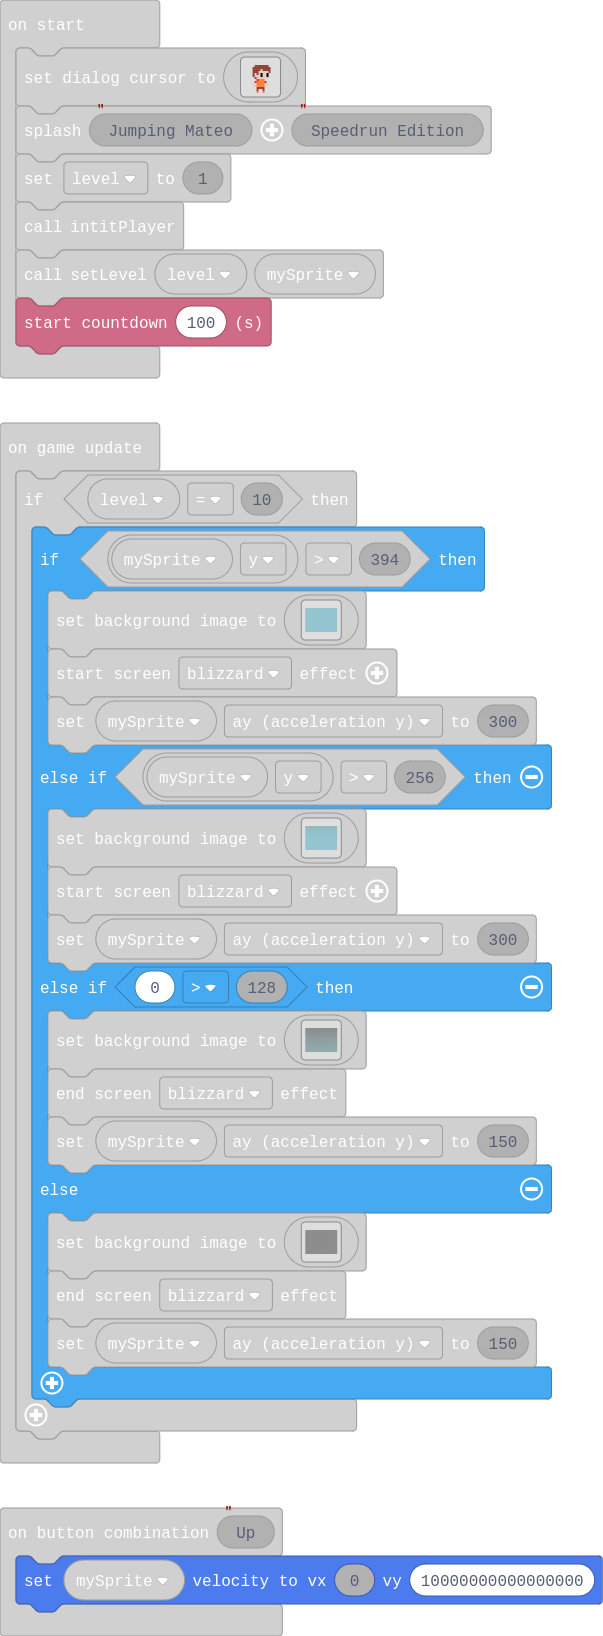
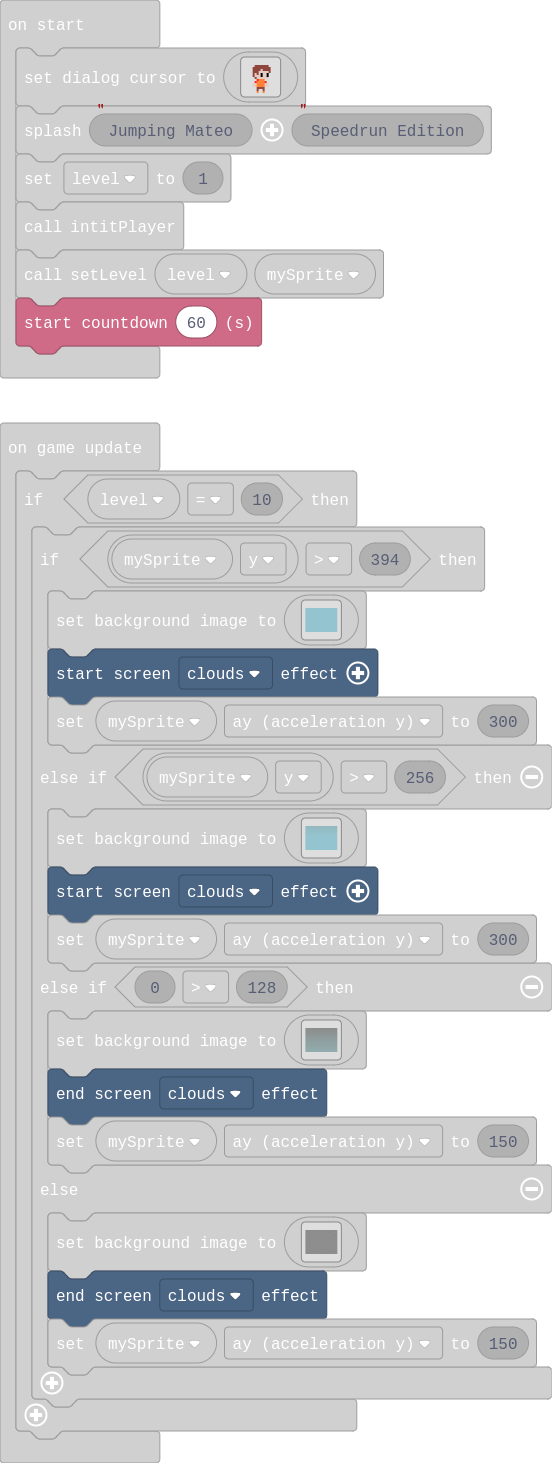
0.2 Update! Changed countdown to 100s to 60s

diff --git a/main.ts b/main.ts
@@ -897,7 +897,7 @@ game.splash("Jumping Mateo", "Speedrun Edition")
 level = 1
 intitPlayer()
 setLevel(level, mySprite)
-info.startCountdown(100)
+info.startCountdown(60)
 game.onUpdate(function () {
     if (level == 10) {
         if (mySprite.y > 394) {
@@ -1023,7 +1023,7 @@ game.onUpdate(function () {
 6 6 6 6 6 6 6 6 6 6 6 6 6 6 6 6 6 6 6 6 6 6 6 6 6 6 6 6 6 6 6 6 6 6 6 6 6 6 6 6 6 6 6 6 6 6 6 6 6 6 6 6 6 6 6 6 6 6 6 6 6 6 6 6 6 6 6 6 6 6 6 6 6 6 6 6 6 6 6 6 6 6 6 6 6 6 6 6 6 6 6 6 6 6 6 6 6 6 6 6 6 6 6 6 6 6 6 6 6 6 6 6 6 6 6 6 6 6 6 6 6 6 6 6 6 6 6 6 6 6 6 6 6 6 6 6 6 6 6 6 6 6 6 6 6 6 6 6 6 6 6 6 6 6 6 6 6 6 6 6 
 6 6 6 6 6 6 6 6 6 6 6 6 6 6 6 6 6 6 6 6 6 6 6 6 6 6 6 6 6 6 6 6 6 6 6 6 6 6 6 6 6 6 6 6 6 6 6 6 6 6 6 6 6 6 6 6 6 6 6 6 6 6 6 6 6 6 6 6 6 6 6 6 6 6 6 6 6 6 6 6 6 6 6 6 6 6 6 6 6 6 6 6 6 6 6 6 6 6 6 6 6 6 6 6 6 6 6 6 6 6 6 6 6 6 6 6 6 6 6 6 6 6 6 6 6 6 6 6 6 6 6 6 6 6 6 6 6 6 6 6 6 6 6 6 6 6 6 6 6 6 6 6 6 6 6 6 6 6 6 6 
 `)
-            effects.blizzard.startScreenEffect()
+            effects.clouds.startScreenEffect()
             mySprite.ay = 300
         } else if (mySprite.y > 256) {
             scene.setBackgroundImage(img`
@@ -1148,7 +1148,7 @@ f 6 6 6 6 6 6 6 f 6 6 6 6 6 6 6 f 6 6 6 6 6 6 6 f 6 6 6 6 6 6 6 f 6 6 6 6 6 6 6 
 6 6 6 6 6 6 6 6 6 6 6 6 6 6 6 6 6 6 6 6 6 6 6 6 6 6 6 6 6 6 6 6 6 6 6 6 6 6 6 6 6 6 6 6 6 6 6 6 6 6 6 6 6 6 6 6 6 6 6 6 6 6 6 6 6 6 6 6 6 6 6 6 6 6 6 6 6 6 6 6 6 6 6 6 6 6 6 6 6 6 6 6 6 6 6 6 6 6 6 6 6 6 6 6 6 6 6 6 6 6 6 6 6 6 6 6 6 6 6 6 6 6 6 6 6 6 6 6 6 6 6 6 6 6 6 6 6 6 6 6 6 6 6 6 6 6 6 6 6 6 6 6 6 6 6 6 6 6 6 6 
 6 6 6 6 6 6 6 6 6 6 6 6 6 6 6 6 6 6 6 6 6 6 6 6 6 6 6 6 6 6 6 6 6 6 6 6 6 6 6 6 6 6 6 6 6 6 6 6 6 6 6 6 6 6 6 6 6 6 6 6 6 6 6 6 6 6 6 6 6 6 6 6 6 6 6 6 6 6 6 6 6 6 6 6 6 6 6 6 6 6 6 6 6 6 6 6 6 6 6 6 6 6 6 6 6 6 6 6 6 6 6 6 6 6 6 6 6 6 6 6 6 6 6 6 6 6 6 6 6 6 6 6 6 6 6 6 6 6 6 6 6 6 6 6 6 6 6 6 6 6 6 6 6 6 6 6 6 6 6 6 
 `)
-            effects.blizzard.startScreenEffect()
+            effects.clouds.startScreenEffect()
             mySprite.ay = 300
         } else if (0 > 128) {
             scene.setBackgroundImage(img`
@@ -1273,7 +1273,7 @@ f 6 f 6 f 6 f 6 f 6 f 6 f 6 f 6 f 6 f 6 f 6 f 6 f 6 f 6 f 6 f 6 f 6 f 6 f 6 f 6 
 6 f 6 f 6 f 6 f 6 f 6 f 6 f 6 f 6 f 6 f 6 f 6 f 6 f 6 f 6 f 6 f 6 f 6 f 6 f 6 f 6 f 6 f 6 f 6 f 6 f 6 f 6 f 6 f 6 f 6 f 6 f 6 f 6 f 6 f 6 f 6 f 6 f 6 f 6 f 6 f 6 f 6 f 6 f 6 f 6 f 6 f 6 f 6 f 6 f 6 f 6 f 6 f 6 f 6 f 6 f 6 f 6 f 6 f 6 f 6 f 6 f 6 f 6 f 6 f 6 f 6 f 6 f 6 f 6 f 6 f 6 f 6 f 6 f 6 f 6 f 6 f 6 f 6 f 6 f 6 f 
 f 6 f 6 f 6 f 6 f 6 f 6 f 6 f 6 f 6 f 6 f 6 f 6 f 6 f 6 f 6 f 6 f 6 f 6 f 6 f 6 f 6 f 6 f 6 f 6 f 6 f 6 f 6 f 6 f 6 f 6 f 6 f 6 f 6 f 6 f 6 f 6 f 6 f 6 f 6 f 6 f 6 f 6 f 6 f 6 f 6 f 6 f 6 f 6 f 6 f 6 f 6 f 6 f 6 f 6 f 6 f 6 f 6 f 6 f 6 f 6 f 6 f 6 f 6 f 6 f 6 f 6 f 6 f 6 f 6 f 6 f 6 f 6 f 6 f 6 f 6 f 6 f 6 f 6 f 6 f 6 
 `)
-            effects.blizzard.endScreenEffect()
+            effects.clouds.endScreenEffect()
             mySprite.ay = 150
         } else {
             scene.setBackgroundImage(img`
@@ -1398,7 +1398,7 @@ f f f f f f f f f f f f f f f f f f f f f f f f f f f f f f f f f f f f f f f f 
 f f f f f f f f f f f f f f f f f f f f f f f f f f f f f f f f f f f f f f f f f f f f f f f f f f f f f f f f f f f f f f f f f f f f f f f f f f f f f f f f f f f f f f f f f f f f f f f f f f f f f f f f f f f f f f f f f f f f f f f f f f f f f f f f f f f f f f f f f f f f f f f f f f f f f f f f f f f f f f f f 
 f f f f f f f f f f f f f f f f f f f f f f f f f f f f f f f f f f f f f f f f f f f f f f f f f f f f f f f f f f f f f f f f f f f f f f f f f f f f f f f f f f f f f f f f f f f f f f f f f f f f f f f f f f f f f f f f f f f f f f f f f f f f f f f f f f f f f f f f f f f f f f f f f f f f f f f f f f f f f f f f 
 `)
-            effects.blizzard.endScreenEffect()
+            effects.clouds.endScreenEffect()
             mySprite.ay = 150
         }
     }
